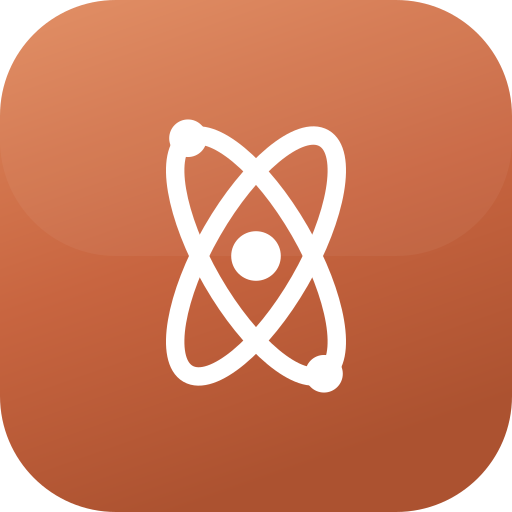
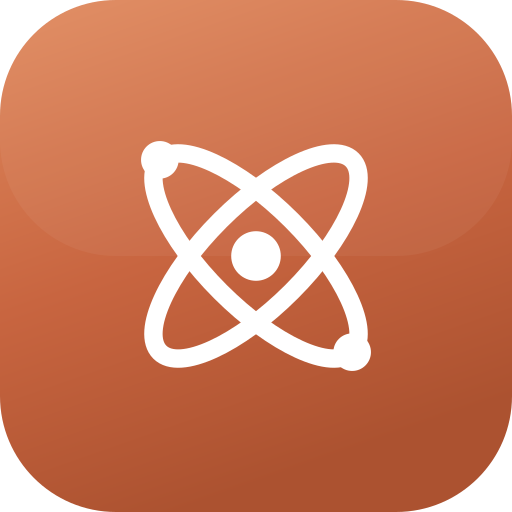
feat(brand): widen atom orbits to a symmetric 45°/135° X
Spread the two-shell mark from 60°/120° (60° apart, read narrow) to
45°/135° — a perfectly symmetric X, 90° apart, with the electrons on the
diagonal tips. Applied across every surface: marketing header/footer +
animated subject orb, favicon, product login/join/welcome/catalog +
per-concept headers, and the master download.svg/.png (the Google-upload
source).

Also rebuilds the first-login brand intro to the new geometry: two orbits
at 45°/135° and two electrons that now stay and settle onto the 45° shell
tips, so the reveal resolves into the exact static logo (the old intro
faded electrons out to leave the bare 3-orbit mark).

Changed region(s): [[0.2812, 0.2188, 0.7188, 0.7812]]

diff --git a/src/scripts/build_review_site.ts b/src/scripts/build_review_site.ts
@@ -683,7 +683,7 @@ ${pilotHeadTags(1)}
     <header>
       <div class="brandbar">
         <div class="logo">
-          <div class="mark"><svg viewBox="0 0 24 24" fill="none"><ellipse cx="12" cy="12" rx="9.6" ry="4" stroke="#fff" stroke-width="1.5" transform="rotate(60 12 12)"/><ellipse cx="12" cy="12" rx="9.6" ry="4" stroke="#fff" stroke-width="1.5" transform="rotate(120 12 12)"/><circle cx="16.8" cy="20.31" r="1.5" fill="#fff"/><circle cx="7.2" cy="3.69" r="1.5" fill="#fff"/><circle cx="12" cy="12" r="2.3" fill="#fff"/></svg></div>
+          <div class="mark"><svg viewBox="0 0 24 24" fill="none"><ellipse cx="12" cy="12" rx="9.6" ry="4" stroke="#fff" stroke-width="1.5" transform="rotate(45 12 12)"/><ellipse cx="12" cy="12" rx="9.6" ry="4" stroke="#fff" stroke-width="1.5" transform="rotate(135 12 12)"/><circle cx="18.79" cy="18.79" r="1.5" fill="#fff"/><circle cx="5.21" cy="5.21" r="1.5" fill="#fff"/><circle cx="12" cy="12" r="2.3" fill="#fff"/></svg></div>
           <div class="wordmark"><b>Viditra</b><span>Teacher Edition</span></div>
         </div>
         <div class="vrule"></div>
@@ -696,7 +696,7 @@ ${pilotHeadTags(1)}
       <iframe id="sim" src="sim.html" title="sim" allow="autoplay"></iframe>
       <div id="pmWm">powered by <b>Viditra</b></div>
       <div id="pmLoad"><div class="plc">
-        <div class="mark"><svg viewBox="0 0 24 24" fill="none"><ellipse cx="12" cy="12" rx="9.6" ry="4" stroke="#fff" stroke-width="1.5" transform="rotate(60 12 12)"/><ellipse cx="12" cy="12" rx="9.6" ry="4" stroke="#fff" stroke-width="1.5" transform="rotate(120 12 12)"/><circle cx="16.8" cy="20.31" r="1.5" fill="#fff"/><circle cx="7.2" cy="3.69" r="1.5" fill="#fff"/><circle cx="12" cy="12" r="2.3" fill="#fff"/></svg></div>
+        <div class="mark"><svg viewBox="0 0 24 24" fill="none"><ellipse cx="12" cy="12" rx="9.6" ry="4" stroke="#fff" stroke-width="1.5" transform="rotate(45 12 12)"/><ellipse cx="12" cy="12" rx="9.6" ry="4" stroke="#fff" stroke-width="1.5" transform="rotate(135 12 12)"/><circle cx="18.79" cy="18.79" r="1.5" fill="#fff"/><circle cx="5.21" cy="5.21" r="1.5" fill="#fff"/><circle cx="12" cy="12" r="2.3" fill="#fff"/></svg></div>
         <span class="nm" id="pmLoadName">Viditra</span><span class="pw">powered by <b>Viditra</b></span>
       </div></div>
       <canvas id="simOverlay"></canvas>
@@ -2394,7 +2394,7 @@ ${pilotHeadTags(0)}
 </script>
 <div class="wrap">
   <div class="masthead">
-    <div class="mark"><svg viewBox="0 0 24 24" fill="none"><ellipse cx="12" cy="12" rx="9.6" ry="4" stroke="#fff" stroke-width="1.5" transform="rotate(60 12 12)"/><ellipse cx="12" cy="12" rx="9.6" ry="4" stroke="#fff" stroke-width="1.5" transform="rotate(120 12 12)"/><circle cx="16.8" cy="20.31" r="1.5" fill="#fff"/><circle cx="7.2" cy="3.69" r="1.5" fill="#fff"/><circle cx="12" cy="12" r="2.3" fill="#fff"/></svg></div>
+    <div class="mark"><svg viewBox="0 0 24 24" fill="none"><ellipse cx="12" cy="12" rx="9.6" ry="4" stroke="#fff" stroke-width="1.5" transform="rotate(45 12 12)"/><ellipse cx="12" cy="12" rx="9.6" ry="4" stroke="#fff" stroke-width="1.5" transform="rotate(135 12 12)"/><circle cx="18.79" cy="18.79" r="1.5" fill="#fff"/><circle cx="5.21" cy="5.21" r="1.5" fill="#fff"/><circle cx="12" cy="12" r="2.3" fill="#fff"/></svg></div>
     <div class="brand"><b>Viditra</b><span>Teacher Edition</span></div>
     <div class="who">
       <button id="pmAcct" type="button" aria-haspopup="menu" aria-expanded="false" hidden>
@@ -2429,7 +2429,7 @@ ${pilotHeadTags(0)}
 ${chapterBlocks || '  <p class="empty">No simulations published yet.</p>'}
 </div>
 <div id="pmSplash" hidden><div class="sc">
-  <div class="mark"><svg viewBox="0 0 24 24" fill="none"><ellipse cx="12" cy="12" rx="9.6" ry="4" stroke="#fff" stroke-width="1.5" transform="rotate(60 12 12)"/><ellipse cx="12" cy="12" rx="9.6" ry="4" stroke="#fff" stroke-width="1.5" transform="rotate(120 12 12)"/><circle cx="16.8" cy="20.31" r="1.5" fill="#fff"/><circle cx="7.2" cy="3.69" r="1.5" fill="#fff"/><circle cx="12" cy="12" r="2.3" fill="#fff"/></svg></div>
+  <div class="mark"><svg viewBox="0 0 24 24" fill="none"><ellipse cx="12" cy="12" rx="9.6" ry="4" stroke="#fff" stroke-width="1.5" transform="rotate(45 12 12)"/><ellipse cx="12" cy="12" rx="9.6" ry="4" stroke="#fff" stroke-width="1.5" transform="rotate(135 12 12)"/><circle cx="18.79" cy="18.79" r="1.5" fill="#fff"/><circle cx="5.21" cy="5.21" r="1.5" fill="#fff"/><circle cx="12" cy="12" r="2.3" fill="#fff"/></svg></div>
   <div class="nm" id="pmSplashName"></div>
   <div class="pw">powered by <b>Viditra</b></div>
 </div></div>
@@ -2781,13 +2781,16 @@ ${chapterBlocks || '  <p class="empty">No simulations published yet.</p>'}
 
     var atom = pmSvgEl('g', {}, root);
     var orbits = [], electrons = [];
-    for (var o = 0; o < 3; o++) {
+    // Two-shell atom — the de-Reacted mark: orbits 90° apart (45°/135°), two
+    // electrons resting antipodally on the 45° shell (matches the static logo).
+    var pmIvAngles = [45, 135];
+    for (var o = 0; o < pmIvAngles.length; o++) {
       orbits.push(pmSvgEl('ellipse', {
-        transform: 'rotate(' + (o * 60) + ')',
+        transform: 'rotate(' + pmIvAngles[o] + ')',
         fill: 'none', stroke: '#FFFFFF', 'stroke-linecap': 'round'
       }, atom));
     }
-    for (var e = 0; e < 3; e++) {
+    for (var e = 0; e < pmIvAngles.length; e++) {
       var g = pmSvgEl('g', { opacity: 0 }, atom);
       var core = pmSvgEl('circle', { fill: '#FFDCC8' }, g);
       var glow = pmSvgEl('circle', { fill: '#E08A5E', opacity: 0.35 }, g);
@@ -2820,7 +2823,7 @@ ${chapterBlocks || '  <p class="empty">No simulations published yet.</p>'}
     var settled = 460 / 128;   // exact logo proportion inside the tile
     var atomScale = E.interp(t, [0, 1.6, 2.25], [7.2, 7.2, settled], E.inOutCubic);
     var sw = E.interp(t, [0, 1.6, 2.25], [7, 7, 4.6 * settled], E.inOutCubic);
-    var electronOp = E.interp(t, [0, 0.25, 2.0, 2.3], [0, 1, 1, 0], null);
+    var electronOp = E.interp(t, [0, 0.25], [0, 1], null);   // fade in, then stay — the new mark keeps its electrons
     var markX = 960 - 330 * slideP;
 
     for (var i = 0; i < R.dust.length; i++) {
@@ -2846,10 +2849,10 @@ ${chapterBlocks || '  <p class="empty">No simulations published yet.</p>'}
     var a = 34 * atomScale, b = 12.6 * atomScale;
     // ellipse perimeter (Ramanujan) — for the dash-based draw-on
     var per = Math.PI * (3 * (a + b) - Math.sqrt((3 * a + b) * (a + 3 * b)));
-    for (var e = 0; e < 3; e++) {
-      // Draw-on: orbit e starts at 0.15 + e*0.18 and completes at 1.5s (staggered starts,
-      // shared finish), its electron riding the arc tip; after 1.5s the electrons blend
-      // into the orbital spin, their phases spreading over 0.6s (no teleport).
+    for (var e = 0; e < 2; e++) {
+      // Draw-on: orbit e starts at 0.15 + e*0.18 and completes at 1.5s (staggered
+      // starts, shared finish). The two electrons ride the 45° shell antipodally and
+      // settle onto its tips at 1.5s — the resolved mark IS the static logo.
       var s0 = 0.15 + e * 0.18;
       var p = E.clamp01((t - s0) / (1.5 - s0));
       var eased = E.inOutCubic(p);
@@ -2865,11 +2868,11 @@ ${chapterBlocks || '  <p class="empty">No simulations published yet.</p>'}
         orb.setAttribute('stroke-dasharray', 'none');
         orb.setAttribute('stroke-dashoffset', 0);
       }
-      var ang = t < 1.5
-        ? eased * Math.PI * 2
-        : Math.PI * 2 + (t - 1.5) * 1.6 + e * 2.1 * E.clamp01((t - 1.5) / 0.6);
+      // Electron rides its draw-on to the tip (ang -> 2π), then holds there; the
+      // e*π offset makes the pair antipodal, and rot pins both to the 45° shell.
+      var ang = eased * Math.PI * 2 + e * Math.PI;
       var x0 = a * Math.cos(ang), y0 = b * Math.sin(ang);
-      var rot = (e * 60 * Math.PI) / 180;
+      var rot = (45 * Math.PI) / 180;
       var ex = x0 * Math.cos(rot) - y0 * Math.sin(rot);
       var ey = x0 * Math.sin(rot) + y0 * Math.cos(rot);
       var el = R.electrons[e];

diff --git a/src/scripts/pilot_site_assets.ts b/src/scripts/pilot_site_assets.ts
@@ -858,7 +858,7 @@ function loginHtml(): string {
 <body>
 <div class="wrap"><div class="card">
   <div class="masthead">
-    <div class="mark"><svg viewBox="0 0 24 24" fill="none"><ellipse cx="12" cy="12" rx="9.6" ry="4" stroke="#fff" stroke-width="1.5" transform="rotate(60 12 12)"/><ellipse cx="12" cy="12" rx="9.6" ry="4" stroke="#fff" stroke-width="1.5" transform="rotate(120 12 12)"/><circle cx="16.8" cy="20.31" r="1.5" fill="#fff"/><circle cx="7.2" cy="3.69" r="1.5" fill="#fff"/><circle cx="12" cy="12" r="2.3" fill="#fff"/></svg></div>
+    <div class="mark"><svg viewBox="0 0 24 24" fill="none"><ellipse cx="12" cy="12" rx="9.6" ry="4" stroke="#fff" stroke-width="1.5" transform="rotate(45 12 12)"/><ellipse cx="12" cy="12" rx="9.6" ry="4" stroke="#fff" stroke-width="1.5" transform="rotate(135 12 12)"/><circle cx="18.79" cy="18.79" r="1.5" fill="#fff"/><circle cx="5.21" cy="5.21" r="1.5" fill="#fff"/><circle cx="12" cy="12" r="2.3" fill="#fff"/></svg></div>
     <div class="brand"><b>Viditra</b><span>Teacher Edition</span></div>
   </div>
 
@@ -1028,7 +1028,7 @@ function joinHtml(): string {
 <body>
 <div class="wrap"><div class="card">
   <div class="masthead">
-    <div class="mark"><svg viewBox="0 0 24 24" fill="none"><ellipse cx="12" cy="12" rx="9.6" ry="4" stroke="#fff" stroke-width="1.5" transform="rotate(60 12 12)"/><ellipse cx="12" cy="12" rx="9.6" ry="4" stroke="#fff" stroke-width="1.5" transform="rotate(120 12 12)"/><circle cx="16.8" cy="20.31" r="1.5" fill="#fff"/><circle cx="7.2" cy="3.69" r="1.5" fill="#fff"/><circle cx="12" cy="12" r="2.3" fill="#fff"/></svg></div>
+    <div class="mark"><svg viewBox="0 0 24 24" fill="none"><ellipse cx="12" cy="12" rx="9.6" ry="4" stroke="#fff" stroke-width="1.5" transform="rotate(45 12 12)"/><ellipse cx="12" cy="12" rx="9.6" ry="4" stroke="#fff" stroke-width="1.5" transform="rotate(135 12 12)"/><circle cx="18.79" cy="18.79" r="1.5" fill="#fff"/><circle cx="5.21" cy="5.21" r="1.5" fill="#fff"/><circle cx="12" cy="12" r="2.3" fill="#fff"/></svg></div>
     <div class="brand"><b>Viditra</b><span>Teacher Edition</span></div>
   </div>
 
@@ -1125,7 +1125,7 @@ function welcomeHtml(): string {
 <body>
 <div class="wrap"><div class="card">
   <div class="masthead">
-    <div class="mark"><svg viewBox="0 0 24 24" fill="none"><ellipse cx="12" cy="12" rx="9.6" ry="4" stroke="#fff" stroke-width="1.5" transform="rotate(60 12 12)"/><ellipse cx="12" cy="12" rx="9.6" ry="4" stroke="#fff" stroke-width="1.5" transform="rotate(120 12 12)"/><circle cx="16.8" cy="20.31" r="1.5" fill="#fff"/><circle cx="7.2" cy="3.69" r="1.5" fill="#fff"/><circle cx="12" cy="12" r="2.3" fill="#fff"/></svg></div>
+    <div class="mark"><svg viewBox="0 0 24 24" fill="none"><ellipse cx="12" cy="12" rx="9.6" ry="4" stroke="#fff" stroke-width="1.5" transform="rotate(45 12 12)"/><ellipse cx="12" cy="12" rx="9.6" ry="4" stroke="#fff" stroke-width="1.5" transform="rotate(135 12 12)"/><circle cx="18.79" cy="18.79" r="1.5" fill="#fff"/><circle cx="5.21" cy="5.21" r="1.5" fill="#fff"/><circle cx="12" cy="12" r="2.3" fill="#fff"/></svg></div>
     <div class="brand"><b>Viditra</b><span>Teacher Edition</span></div>
   </div>
 
@@ -1242,7 +1242,7 @@ function expiredHtml(): string {
 <body>
 <div class="wrap"><div class="card">
   <div class="masthead">
-    <div class="mark"><svg viewBox="0 0 24 24" fill="none"><ellipse cx="12" cy="12" rx="9.6" ry="4" stroke="#fff" stroke-width="1.5" transform="rotate(60 12 12)"/><ellipse cx="12" cy="12" rx="9.6" ry="4" stroke="#fff" stroke-width="1.5" transform="rotate(120 12 12)"/><circle cx="16.8" cy="20.31" r="1.5" fill="#fff"/><circle cx="7.2" cy="3.69" r="1.5" fill="#fff"/><circle cx="12" cy="12" r="2.3" fill="#fff"/></svg></div>
+    <div class="mark"><svg viewBox="0 0 24 24" fill="none"><ellipse cx="12" cy="12" rx="9.6" ry="4" stroke="#fff" stroke-width="1.5" transform="rotate(45 12 12)"/><ellipse cx="12" cy="12" rx="9.6" ry="4" stroke="#fff" stroke-width="1.5" transform="rotate(135 12 12)"/><circle cx="18.79" cy="18.79" r="1.5" fill="#fff"/><circle cx="5.21" cy="5.21" r="1.5" fill="#fff"/><circle cx="12" cy="12" r="2.3" fill="#fff"/></svg></div>
     <div class="brand"><b>Viditra</b><span>Teacher Edition</span></div>
   </div>
 

diff --git a/website/index.html b/website/index.html
@@ -25,7 +25,7 @@
   <div class="wrap bar">
     <a class="masthead" href="#top" aria-label="Home">
       <span class="mark" aria-hidden="true">
-        <svg viewBox="0 0 24 24" fill="none"><ellipse cx="12" cy="12" rx="9.6" ry="4" stroke="#fff" stroke-width="1.5" transform="rotate(60 12 12)"/><ellipse cx="12" cy="12" rx="9.6" ry="4" stroke="#fff" stroke-width="1.5" transform="rotate(120 12 12)"/><circle cx="16.8" cy="20.31" r="1.5" fill="#fff"/><circle cx="7.2" cy="3.69" r="1.5" fill="#fff"/><circle cx="12" cy="12" r="2.3" fill="#fff"/></svg>
+        <svg viewBox="0 0 24 24" fill="none"><ellipse cx="12" cy="12" rx="9.6" ry="4" stroke="#fff" stroke-width="1.5" transform="rotate(45 12 12)"/><ellipse cx="12" cy="12" rx="9.6" ry="4" stroke="#fff" stroke-width="1.5" transform="rotate(135 12 12)"/><circle cx="18.79" cy="18.79" r="1.5" fill="#fff"/><circle cx="5.21" cy="5.21" r="1.5" fill="#fff"/><circle cx="12" cy="12" r="2.3" fill="#fff"/></svg>
       </span>
       <span class="brand"><b data-brand="name">Viditra</b><span data-brand="sub"></span></span>
     </a>
@@ -233,7 +233,7 @@
       <div class="cards">
         <article class="card live reveal">
           <div class="orb" aria-hidden="true">
-            <svg viewBox="0 0 24 24" fill="none"><g class="o2"><ellipse cx="12" cy="12" rx="9.6" ry="4" stroke="currentColor" stroke-width="1.1" transform="rotate(60 12 12)"/><circle cx="16.8" cy="20.31" r="1.5" fill="currentColor"/><circle cx="7.2" cy="3.69" r="1.5" fill="currentColor"/></g><g class="o3"><ellipse cx="12" cy="12" rx="9.6" ry="4" stroke="currentColor" stroke-width="1.1" transform="rotate(120 12 12)"/></g><circle class="nuc" cx="12" cy="12" r="2" fill="currentColor"/></svg>
+            <svg viewBox="0 0 24 24" fill="none"><g class="o2"><ellipse cx="12" cy="12" rx="9.6" ry="4" stroke="currentColor" stroke-width="1.1" transform="rotate(45 12 12)"/><circle cx="18.79" cy="18.79" r="1.5" fill="currentColor"/><circle cx="5.21" cy="5.21" r="1.5" fill="currentColor"/></g><g class="o3"><ellipse cx="12" cy="12" rx="9.6" ry="4" stroke="currentColor" stroke-width="1.1" transform="rotate(135 12 12)"/></g><circle class="nuc" cx="12" cy="12" r="2" fill="currentColor"/></svg>
           </div>
           <h3>Physics</h3>
           <p class="pill on">3 chapters live</p>
@@ -342,7 +342,7 @@
   <div class="wrap footRow">
     <div class="masthead">
       <span class="mark sm" aria-hidden="true">
-        <svg viewBox="0 0 24 24" fill="none"><ellipse cx="12" cy="12" rx="9.6" ry="4" stroke="#fff" stroke-width="1.5" transform="rotate(60 12 12)"/><ellipse cx="12" cy="12" rx="9.6" ry="4" stroke="#fff" stroke-width="1.5" transform="rotate(120 12 12)"/><circle cx="16.8" cy="20.31" r="1.5" fill="#fff"/><circle cx="7.2" cy="3.69" r="1.5" fill="#fff"/><circle cx="12" cy="12" r="2.3" fill="#fff"/></svg>
+        <svg viewBox="0 0 24 24" fill="none"><ellipse cx="12" cy="12" rx="9.6" ry="4" stroke="#fff" stroke-width="1.5" transform="rotate(45 12 12)"/><ellipse cx="12" cy="12" rx="9.6" ry="4" stroke="#fff" stroke-width="1.5" transform="rotate(135 12 12)"/><circle cx="18.79" cy="18.79" r="1.5" fill="#fff"/><circle cx="5.21" cy="5.21" r="1.5" fill="#fff"/><circle cx="12" cy="12" r="2.3" fill="#fff"/></svg>
       </span>
       <span class="brand"><b data-brand="name">Viditra</b></span>
     </div>

diff --git a/website/demo/index.html b/website/demo/index.html
@@ -322,7 +322,7 @@
     <header>
       <div class="brandbar">
         <div class="logo">
-          <div class="mark"><svg viewBox="0 0 24 24" fill="none"><ellipse cx="12" cy="12" rx="9.6" ry="4" stroke="#fff" stroke-width="1.5" transform="rotate(60 12 12)"/><ellipse cx="12" cy="12" rx="9.6" ry="4" stroke="#fff" stroke-width="1.5" transform="rotate(120 12 12)"/><circle cx="16.8" cy="20.31" r="1.5" fill="#fff"/><circle cx="7.2" cy="3.69" r="1.5" fill="#fff"/><circle cx="12" cy="12" r="2.3" fill="#fff"/></svg></div>
+          <div class="mark"><svg viewBox="0 0 24 24" fill="none"><ellipse cx="12" cy="12" rx="9.6" ry="4" stroke="#fff" stroke-width="1.5" transform="rotate(45 12 12)"/><ellipse cx="12" cy="12" rx="9.6" ry="4" stroke="#fff" stroke-width="1.5" transform="rotate(135 12 12)"/><circle cx="18.79" cy="18.79" r="1.5" fill="#fff"/><circle cx="5.21" cy="5.21" r="1.5" fill="#fff"/><circle cx="12" cy="12" r="2.3" fill="#fff"/></svg></div>
           <div class="wordmark"><b>Viditra</b><span>Teacher Edition</span></div>
         </div>
         <div class="vrule"></div>